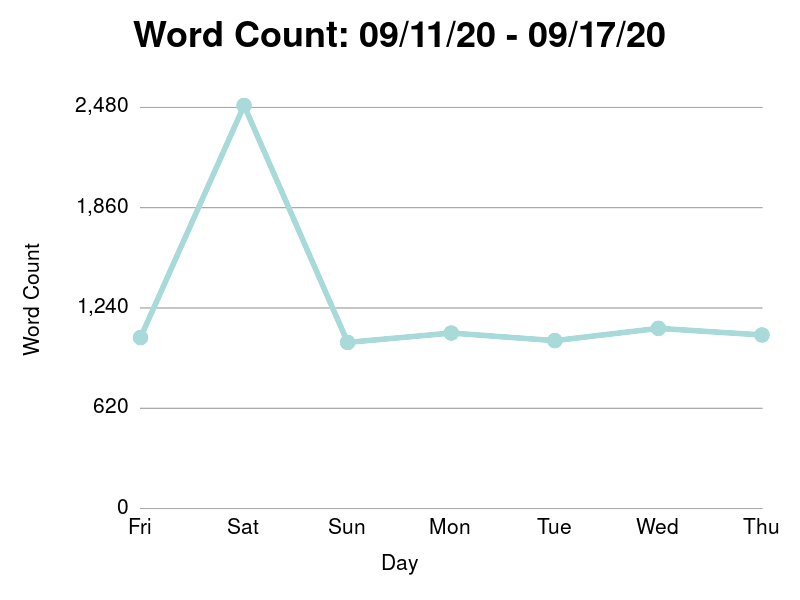
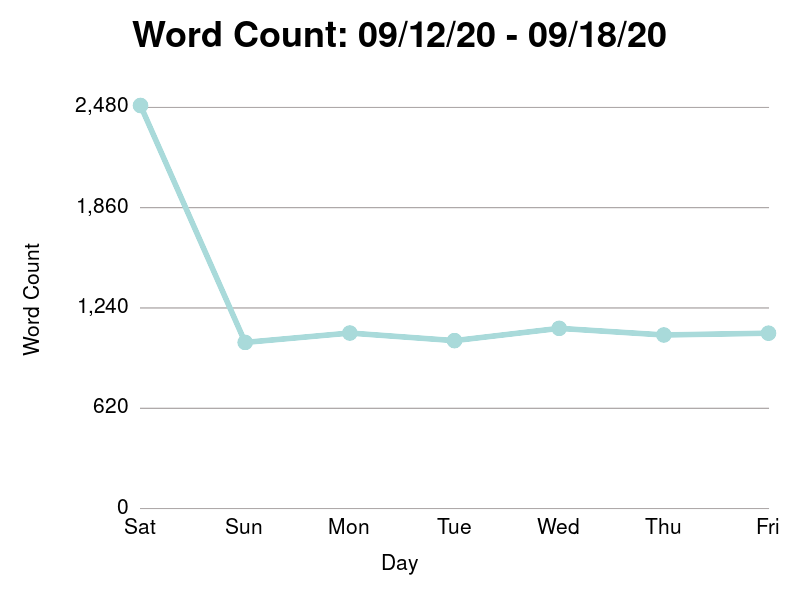
Post

diff --git a/entries/2020-09-18.md b/entries/2020-09-18.md
@@ -1,0 +1,135 @@
+---
+title: HNGR on the moon, papers on the ceiling, and prayer requests
+---
+
+Dear Journal,
+
+Yesterday, my good friend Jordan reminded me about something funny we
+did in college.  There was a joke campus newspaper called "Off the
+Record" that accepted submissions from students with the goal of
+gently poking fun at anything going on in the student body.  My
+freshman year, I signed up for the intro class to the HNGR program, in
+which students would prepare for an intense semester long internship
+in a remote part of the world.  After only a week of attending the
+class, I decided it wasn't for me, but I would finish out the class
+anyway simply for the credits.  The course, along with some silly late
+night riffing with my roommate Jordan sparked an inside joke where we
+imagined asking the college if Jordan could join the intensive HNGR
+internship program with the goal of going to the moon his senior year.
+
+"Think about it," I said, building up a point.  "Name a geographic
+area that is more impoverished than the moon.  GDP.  Literacy.  Lack
+of access to clean water.  It's a dying world - a dying _outer_
+world."
+
+With Jordan's permission, I crafted our shared joke into an article
+and submitted it to off the record.
+
+"Do you still have that paper anywhere?" asked Jordan over text
+yesterday.
+
+I don't have the paper.  Shortly after graduating, while testing a
+homemade program to backup my files, I accidentally deleted the paper
+along with everything else I wrote in college.  Everything I wrote in
+four years just vanished in an instant behind a blinking cursor in a
+terminal.  Tragic, but also kind of cool.
+
+I sent the college an email yesterday, hoping that the newspaper is
+still around and that by chance they have the article somewhere.  And
+while you're here, if any readers out there are still plugged into the
+Wheaton College student body, I'd appreciate some help in tracking it
+down.  The article was likely published in 2010, titled "HNGR on the
+Moon".
+
+_Sip_.  Good morning, everyone.  Congratulations on making it to
+Friday.  It's good to be here.  This morning, the coffee is ample.  We
+had to endure an awkward two day shortage in our coffee supply while
+waiting for our big five pound bag to arrive in the mail.  Yesterday I
+picked up a small bag from Moka across the street to tide us over.
+Well, the five pound bag of beans would arrive in the mail only a few
+hours later, and now we have _six_ pounds of coffee.  The name of the
+game today is to brew as much coffee as possible so nothing goes to
+waste.
+
+It's been a long week.  At work, we're getting ready to roll over into
+another quarter, and our team has a lot of new requirements to gather
+and projects to kick off.  Lots of reading.  Lots of thinking.  Lots
+of staring blankly into my notes, shaking myself back into alertness
+when I start to day dream.
+
+I'm happy for Friday.  I'm grateful for the weekend.  I have lofty
+plans to thoroughly clean Rodney's outside playground.  The spiders
+have just gotten a little too confident, and if anything I need to re
+establish my dominance on behalf of my species and set them in their
+place.
+
+We had a wonderful day yesterday.  As I was busy upstairs hacking away
+on some docs, Rodney tapped me on the shoulder and present several
+pieces of paper rolled up like strolls.  Slipping my headphones off
+and turning in my chair, I gave him my undivided attention.
+
+"I have a prize for you," he said.  He unfurled the first paper, which
+had a lowercase "b" and a "d", each sporting their own arms, legs, and
+silly smiling faces.
+
+"Dude - these are awesome.  Can I hang this up on the wall?" I asked.
+Rodney nodded, fetching the scotch tape out of a drawer.  I stood up
+on my chair and added his papers to the wall.
+
+"I'm running out of room on this wall, dude," I laughed.
+
+"Yeah!" laughed Rodney.  "Dada... put them on the CEILING!"
+
+"On the ceiling?" I laughed.  "Oh dude, could you imagine?"
+
+Rodney returned a few minutes later with several more pieces of paper.
+I had the feeling that he was trying to force the issue.  I taped one
+of the pieces of paper to the ceiling, as requested.
+
+We ate lunch outside together.  I heated up the leftover potato
+romanoff from the night before, and tried to get some more browning
+action under the broiler while waiting for the hamburger helper to
+finish.  Very gourmet stuff, as you can see.
+
+After finishing out the work day, we went for a long walk around the
+block.  I was hesitant at first, having worked a little to far into my
+cooking time, but Marissa convinced me.  "What are we making tonight?
+We can help you when we get back," she offered.
+
+We took a long stroll around the block.  Rodney rode his bike, and for
+a novice biker he fared pretty well.  He managed to stay on the
+sidewalk, turn correctly, and keep up with the pack, and all I had to
+do was keep a few fingers on his handlebars to give him confidence.
+
+I removed my fingers to scratch my face.  Rodney sharply corrected
+me.  "Dada," he said.  "Put... put your hands on my bike."
+
+"Yes sir," I replied meekly.  "Sorry, sir."
+
+"Don't be sorry!" he replied.  "It was just an accident."
+
+I smiled at Marissa.  "Where did that phrase come from?" I laughed.
+
+"It's a new one," said Marissa.  "He says that a lot now."
+
+While putting Rodney to bed, I asked him if he had any special prayer
+requests.  In our bedtime liturgy, we reserve the space just before
+the final "amen" for any concerns that are top of mind.  Rodney stared
+up at the ceiling while he searched his memories.
+
+"Momma's frame," he said sheepishly.
+
+"Momma's frame?" I repeated.
+
+"Momma's frame was broken," said Rodney clarifying.
+
+Retelling it to Marissa, her eyes misted with tears.  "I ordered a
+really big frame in the mail, and Rodney was there when I opened it.
+It was damaged from shipping - there was a big crack in it."
+
+"He was really concerned about it," I said.  "Make sure you keep him
+updated.  I mean, it's in his prayers now."
+
+Rodney will be pleased to learn that Momma is sending the frame back
+in exchange for a new one.  Thanks for stopping by today.  Have a
+wonderful day, everyone.
